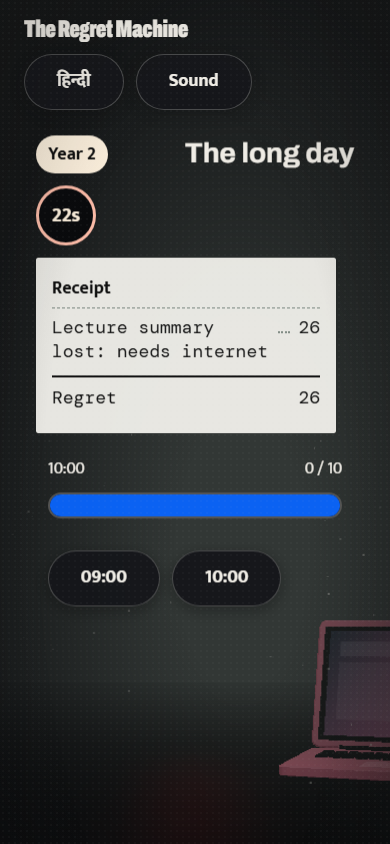
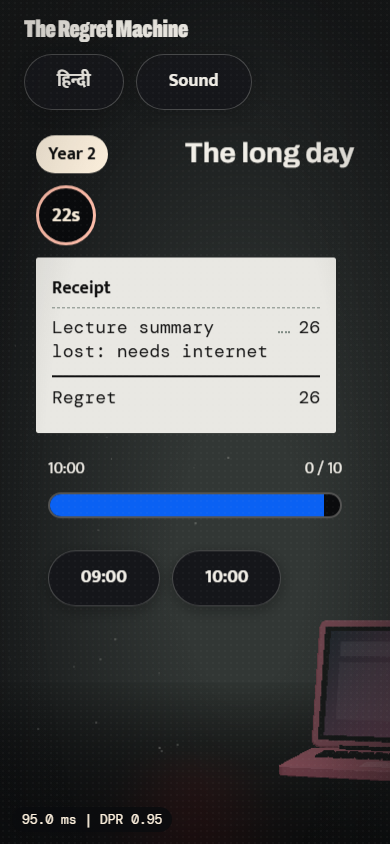
perf(u2): add ?perf=1 overlay, cap DPR 1.5, 30fps static, hidden pause, zero per-frame Color allocs

diff --git a/src/stage3d/stage.ts b/src/stage3d/stage.ts
@@ -49,10 +49,12 @@ export function createWebGLStage(
     powerPreference: automated ? 'low-power' : 'high-performance',
   });
   const softGpu = isSoftwareGpu(renderer);
-  const initialDpr = softGpu ? computeSoftDpr() : window.devicePixelRatio || 1;
-  const quality = createAdaptiveQuality(initialDpr);
+  const initialDpr = softGpu ? computeSoftDpr() : Math.min(1.5, Math.max(1, window.devicePixelRatio || 1));
+  const quality = createAdaptiveQuality(initialDpr, 60, 20);
   renderer.setPixelRatio(initialDpr);
   renderer.setSize(window.innerWidth, window.innerHeight, false);
+  renderer.shadowMap.enabled = !softGpu;
+  renderer.shadowMap.type = THREE.PCFSoftShadowMap;
   renderer.toneMapping = THREE.ACESFilmicToneMapping;
   renderer.toneMappingExposure = 1.08;
 
@@ -91,6 +93,15 @@ export function createWebGLStage(
   let targetOffY = 0;
   let curOffX = 0;
   let curOffY = 0;
+  const showPerf = typeof window !== 'undefined' && new URLSearchParams(window.location.search).get('perf') === '1';
+  let perfEl: HTMLElement | null = null;
+  if (showPerf && typeof document !== 'undefined') {
+    perfEl = document.createElement('aside');
+    perfEl.setAttribute('aria-label', 'Performance');
+    perfEl.dataset.testid = 'perf-overlay';
+    perfEl.className = 'rm-perf-overlay';
+    document.body.appendChild(perfEl);
+  }
 
   const applyViewOffset = (dtMs: number): void => {
     const W = Math.max(1, window.innerWidth);
@@ -117,8 +128,12 @@ export function createWebGLStage(
     const dtSec = dtMs / 1000;
     const tSec = (nowMs - startMs) / 1000;
     const q = quality.recordFrame(dtMs);
-    if (q.degraded && !softGpu && renderer.getPixelRatio() > 1) {
-      renderer.setPixelRatio(1);
+    if (q.degraded && !softGpu) {
+      if (renderer.getPixelRatio() > 1) renderer.setPixelRatio(1);
+      if (renderer.shadowMap.enabled) renderer.shadowMap.enabled = false;
+    }
+    if (perfEl) {
+      perfEl.textContent = `${q.avgFrameMs.toFixed(1)} ms | DPR ${renderer.getPixelRatio().toFixed(2)}`;
     }
     const isClear =
       state.screen === 'fairfight' || state.screen === 'result' || state.screen === 'staff';
@@ -149,14 +164,36 @@ export function createWebGLStage(
   };
 
   const tick = (nowMs: number): void => {
-    if (disposed) return;
-    const minInterval = quality.getState().degraded ? 45 : 16;
+    if (disposed || document.hidden) {
+      rafId = 0;
+      return;
+    }
+    const isStatic =
+      state.scenePhase === 'REVEAL' ||
+      state.screen === 'receipt' ||
+      state.screen === 'fairfight' ||
+      state.screen === 'result' ||
+      state.screen === 'staff';
+    const minInterval = isStatic ? 33.3 : quality.getState().degraded ? 45 : 16;
     if (dirty || nowMs - lastPointerRenderMs >= minInterval) {
       dirty = false;
       renderFrame(nowMs);
       lastPointerRenderMs = nowMs;
     }
     rafId = window.requestAnimationFrame(tick);
+  };
+
+  const onVisibility = (): void => {
+    if (disposed) return;
+    if (document.hidden) {
+      window.cancelAnimationFrame(rafId);
+      rafId = 0;
+    } else if (softGpu) {
+      scheduleSoftFrame();
+    } else if (rafId === 0) {
+      lastMs = performance.now();
+      rafId = window.requestAnimationFrame(tick);
+    }
   };
 
   const onResize = (): void => {
@@ -180,6 +217,7 @@ export function createWebGLStage(
 
   window.addEventListener('resize', onResize);
   window.addEventListener('pointermove', onPointerMove, { passive: true });
+  document.addEventListener('visibilitychange', onVisibility);
   canvas.addEventListener('webglcontextlost', handleLost);
 
   if (softGpu) {
@@ -218,7 +256,9 @@ export function createWebGLStage(
       window.cancelAnimationFrame(rafId);
       window.removeEventListener('resize', onResize);
       window.removeEventListener('pointermove', onPointerMove);
+      document.removeEventListener('visibilitychange', onVisibility);
       canvas.removeEventListener('webglcontextlost', handleLost);
+      perfEl?.remove();
       models.dispose();
       lights.dispose();
       particles.dispose();

diff --git a/src/stage3d/lights.ts b/src/stage3d/lights.ts
@@ -20,6 +20,13 @@ const PERSONA_RIM: Record<Persona, number> = {
   hustle: 0xb9a7ff,
 };
 
+const C_BG_DARK = new THREE.Color(0x0b0c0e);
+const C_DUST = new THREE.Color(0x7e8a83);
+const C_WARM = new THREE.Color(0xfff3e0);
+const C_NEON = new THREE.Color(0xff2b33);
+const C_CLEAR_BG = new THREE.Color(0xeef3fa);
+const C_WORK = new THREE.Color();
+
 export function createShowroomLights(scene: THREE.Scene, softwareFallback = false): ShowroomLights {
   const ambient = new THREE.AmbientLight(0xfff3e0, softwareFallback ? 0.9 : 0.35);
   const hemi = new THREE.HemisphereLight(0xfff3e0, 0x17191d, softwareFallback ? 0.9 : 0.25);
@@ -27,6 +34,11 @@ export function createShowroomLights(scene: THREE.Scene, softwareFallback = fals
     ? new THREE.DirectionalLight(0xfff3e0, 1.45)
     : new THREE.SpotLight(0xfff3e0, 26, 22, Math.PI / 4, 0.55, 1.4);
   keySpot.position.set(1.8, 5.4, 4.6);
+  if (!softwareFallback) {
+    keySpot.castShadow = true;
+    keySpot.shadow.mapSize.set(1024, 1024);
+    keySpot.shadow.bias = -0.0005;
+  }
 
   const fillSpot = softwareFallback
     ? new THREE.DirectionalLight(0xfff3e0, 0.75)
@@ -58,8 +70,10 @@ export function createShowroomLights(scene: THREE.Scene, softwareFallback = fals
       const d = Math.max(0, Math.min(1, decay));
       const spotScale = softwareFallback ? 0.06 : 1;
       if (isClear) {
-        scene.background = new THREE.Color(0xeef3fa);
-        scene.fog = new THREE.FogExp2(0xeef3fa, 0.015);
+        scene.background = C_CLEAR_BG;
+        if (!scene.fog || scene.fog.color.getHex() !== 0xeef3fa) {
+          scene.fog = new THREE.FogExp2(0xeef3fa, 0.015);
+        }
         ambient.color.setHex(0xffffff);
         ambient.intensity = softwareFallback ? 1.5 : 1.15;
         hemi.color.setHex(0xffffff);
@@ -74,23 +88,30 @@ export function createShowroomLights(scene: THREE.Scene, softwareFallback = fals
         return;
       }
 
-      const bgCol = new THREE.Color(0x0b0c0e).lerp(new THREE.Color(0x7e8a83), d * 0.28);
-      scene.background = bgCol;
-      scene.fog = new THREE.FogExp2(bgCol.getHex(), 0.045 + d * 0.055);
+      C_WORK.copy(C_BG_DARK).lerp(C_DUST, d * 0.28);
+      scene.background = C_WORK;
+      if (!scene.fog) {
+        scene.fog = new THREE.FogExp2(C_WORK.getHex(), 0.045 + d * 0.055);
+      } else {
+        scene.fog.color.copy(C_WORK);
+        if (scene.fog instanceof THREE.FogExp2) {
+          scene.fog.density = 0.045 + d * 0.055;
+        }
+      }
       neonTube.visible = isPlinth && !isFlip;
 
       const sweep = isFlip ? 0.35 + 0.65 * Math.cos(tSec * 2.4) : 1;
       const flicker =
         d > 0.35 ? 0.72 + 0.28 * Math.sin(tSec * 19) * Math.cos(tSec * 7) : 0.94 + 0.06 * Math.sin(tSec * 5.2);
 
-      ambient.color.setHex(0xfff3e0).lerp(new THREE.Color(0x7e8a83), d * 0.75);
+      ambient.color.copy(C_WARM).lerp(C_DUST, d * 0.75);
       ambient.intensity = (softwareFallback ? 0.75 : 0.35 + d * 0.15) * sweep;
-      hemi.color.setHex(0xfff3e0).lerp(new THREE.Color(0x7e8a83), d * 0.65);
-      keySpot.color.setHex(0xfff3e0).lerp(new THREE.Color(0x7e8a83), d * 0.6);
+      hemi.color.copy(C_WARM).lerp(C_DUST, d * 0.65);
+      keySpot.color.copy(C_WARM).lerp(C_DUST, d * 0.6);
       keySpot.intensity = 26 * spotScale * (1 - d * 0.58) * sweep;
       fillSpot.intensity = 14 * spotScale * (1 - d * 0.5) * sweep;
       neonLight.intensity = 8.5 * (1 - d * 0.75) * flicker;
-      neonMat.color.setHex(0xff2b33).lerp(new THREE.Color(0x7e8a83), d * 0.65);
+      neonMat.color.copy(C_NEON).lerp(C_DUST, d * 0.65);
       rimLight.intensity = 4 * spotScale;
     },
     dispose(): void {

diff --git a/tests/e2e/v2-r3.spec.ts b/tests/e2e/v2-r3.spec.ts
@@ -22,13 +22,16 @@ test.describe('V2 R3 Three.js showroom & fallback', () => {
 
       await page.clock.install({ time: 0 });
       await page.setViewportSize({ width: vp.width, height: vp.height });
-      await page.goto('/');
+      await page.goto('/?perf=1');
 
       await expect(page.locator('[data-screen="attract"]')).toBeVisible();
       await page.clock.runFor(100);
       await expect(page.locator('#app[data-stage-mode="webgl2"]')).toBeVisible({ timeout: 10_000 });
       await expect(page.locator('canvas#stage3d.rm-stage3d--ready')).toBeVisible();
       await page.clock.runFor(650);
+      if (vp.width === 1536) {
+        console.log('PERF_ATTRACT=' + (await page.getByTestId('perf-overlay').textContent()));
+      }
       await page.screenshot({ path: `evidence/V2-r3/attract-${vp.width}x${vp.height}.png` });
 
       await page.getByRole('button', { name: 'Pick your laptop' }).click();
@@ -48,12 +51,18 @@ test.describe('V2 R3 Three.js showroom & fallback', () => {
 
       await expect(page.locator('[data-screen="lecture"]')).toBeVisible();
       await page.clock.runFor(600);
+      if (vp.width === 1536) {
+        console.log('PERF_SCENE=' + (await page.getByTestId('perf-overlay').textContent()));
+      }
       await page.screenshot({ path: `evidence/U1/lecture-play-${vp.width}x${vp.height}.png` });
       await runClockUntilVisible(page, '[data-phase="REVEAL"]', 18_000);
       await expect(page.locator('[data-phase="REVEAL"]')).toBeVisible();
       await expect(page.locator('[data-screen="lecture"] .stage-window')).toBeAttached();
       await expect(page.getByRole('button', { name: 'Next' })).toHaveCount(0);
       await page.clock.runFor(450);
+      if (vp.width === 1536) {
+        console.log('PERF_REVEAL=' + (await page.getByTestId('perf-overlay').textContent()));
+      }
       await page.screenshot({ path: `evidence/U1/reveal-${vp.width}x${vp.height}.png` });
 
       await runClockUntilVisible(page, '[data-screen="battery"]', 10_000);

diff --git a/src/ui/controls.css b/src/ui/controls.css
@@ -18,9 +18,7 @@
   font-weight: 700;
   line-height: 1.1;
   cursor: pointer;
-  transition:
-    transform var(--t-fast) var(--ease),
-    box-shadow var(--t-fast) var(--ease);
+  transition: transform var(--t-fast) var(--ease);
 }
 
 .rm-btn--secondary {
@@ -46,7 +44,6 @@
 @media (hover: hover) {
   .rm-btn:not([aria-disabled='true']):hover {
     transform: translateY(-1px);
-    box-shadow: 0 12px 28px color-mix(in oklab, var(--ink-black) 52%, transparent);
   }
 }
 
@@ -67,14 +64,10 @@
 @keyframes rm-buy-pulse {
   0%,
   100% {
-    box-shadow:
-      0 8px 24px color-mix(in oklab, var(--ink-black) 42%, transparent),
-      0 0 0 0 color-mix(in oklab, var(--spot-warm) 55%, transparent);
+    opacity: 1;
   }
   50% {
-    box-shadow:
-      0 8px 24px color-mix(in oklab, var(--ink-black) 42%, transparent),
-      0 0 0 10px color-mix(in oklab, var(--spot-warm) 0%, transparent);
+    opacity: 0.88;
   }
 }
 

diff --git a/src/stage3d/particles.ts b/src/stage3d/particles.ts
@@ -5,7 +5,9 @@ export interface DustMotes {
   dispose(): void;
 }
 
-const TOTAL_COUNT = 220;
+const TOTAL_COUNT = 150;
+const WARM_COLOR = new THREE.Color(0xfff3e0);
+const DUST_COLOR = new THREE.Color(0x7e8a83);
 
 export function createDustMotes(scene: THREE.Scene): DustMotes {
   const positions = new Float32Array(TOTAL_COUNT * 3);
@@ -40,7 +42,7 @@ export function createDustMotes(scene: THREE.Scene): DustMotes {
       geo.setDrawRange(0, limit);
       const d = Math.max(0, Math.min(1, decay));
       mat.opacity = 0.22 + d * 0.52;
-      mat.color.setHex(0xfff3e0).lerp(new THREE.Color(0x7e8a83), d * 0.7);
+      mat.color.copy(WARM_COLOR).lerp(DUST_COLOR, d * 0.7);
 
       const posAttr = geo.getAttribute('position') as THREE.BufferAttribute;
       const arr = posAttr.array as Float32Array;

diff --git a/src/ui/components.css b/src/ui/components.css
@@ -57,7 +57,6 @@
   text-align: center;
   transform: rotate(-8deg);
   padding: var(--s2);
-  text-shadow: 0 2px 10px color-mix(in oklab, var(--ink-black) 45%, transparent);
 }
 
 /* PriceTag: crisp showroom paper stock (#F4F1EA) with ink (#111111) */
@@ -90,10 +89,7 @@
     0 10px 24px color-mix(in oklab, var(--ink-black) 48%, transparent),
     0 2px 6px color-mix(in oklab, var(--ink-black) 26%, transparent);
   transform-origin: 50% 12px;
-  transition:
-    transform var(--t-fast) var(--ease),
-    box-shadow var(--t-fast) var(--ease),
-    border-color var(--t-fast) var(--ease);
+  transition: transform var(--t-fast) var(--ease);
 }
 
 .rm-pricetag:focus-visible {

diff --git a/src/ui/stage3d.css b/src/ui/stage3d.css
@@ -53,3 +53,17 @@
 [data-stage-mode='webgl2'] .rm-ff-table {
   background: color-mix(in oklab, var(--studio-white) 92%, transparent);
 }
+
+.rm-perf-overlay {
+  position: fixed;
+  left: 12px;
+  bottom: 12px;
+  z-index: 9999;
+  padding: 4px 10px;
+  border-radius: 999px;
+  background: color-mix(in oklab, var(--wall-obsidian) 86%, transparent);
+  color: var(--spot-warm);
+  font-family: var(--font-receipt);
+  font-size: 13px;
+  pointer-events: none;
+}

diff --git a/src/ui/base.css b/src/ui/base.css
@@ -131,11 +131,6 @@ html.skin-clear {
   text-transform: uppercase;
   line-height: 0.94;
   margin: 0;
-  text-shadow: 0 8px 32px color-mix(in oklab, var(--ink-black) 65%, transparent);
-}
-
-.skin-clear .type-flyer {
-  text-shadow: none;
 }
 
 .type-title {
